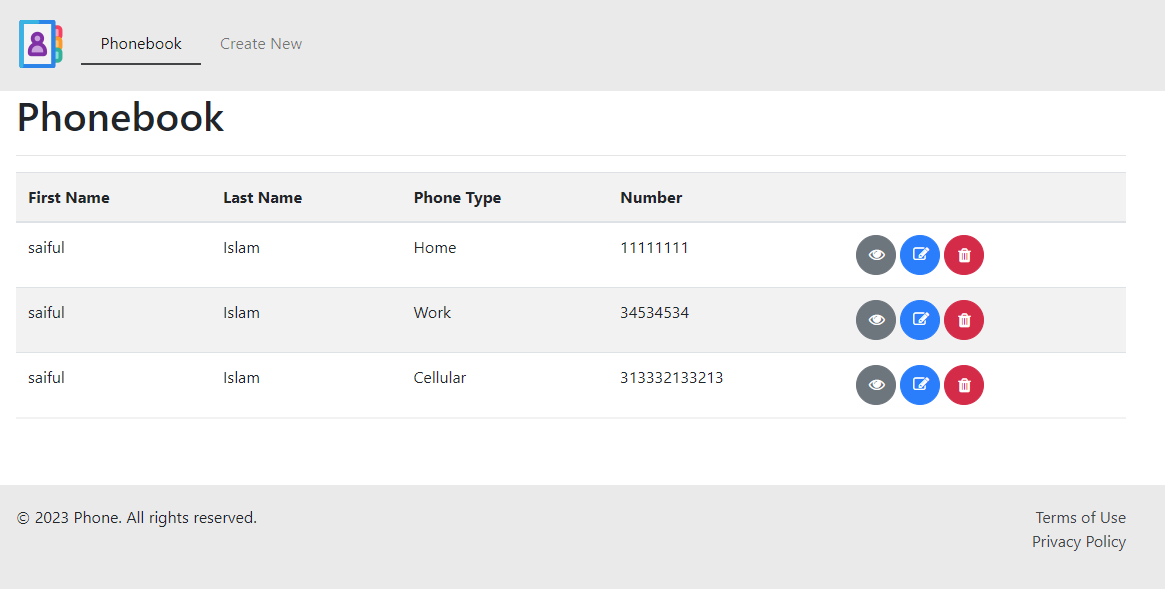
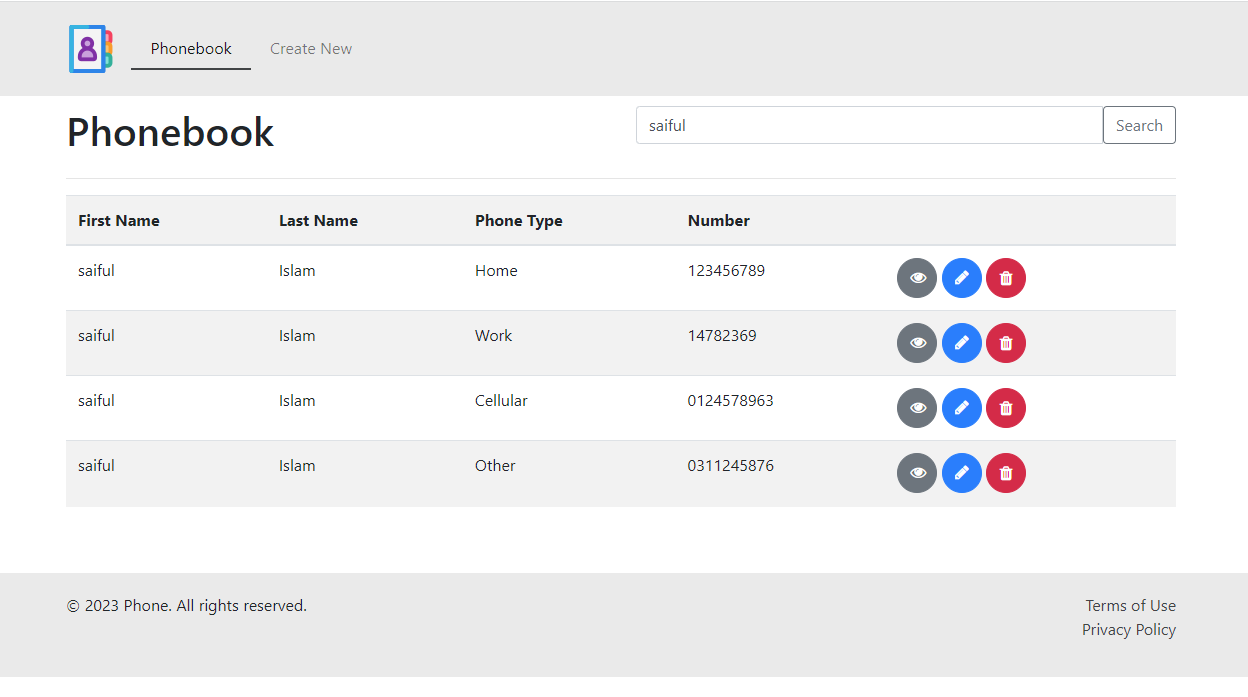
Search List
Search List from Frist Name and Last Name

diff --git a/public/css/header.css b/public/css/header.css
@@ -1,6 +1,7 @@
 header {
     background-color: #eaeaea;
     padding: 10px;
+    margin-bottom: 10px;
 }
 nav{
     width: 100%;

diff --git a/resources/views/phonebook/index.blade.php b/resources/views/phonebook/index.blade.php
@@ -4,7 +4,23 @@
     <div class="container">
         <div class="row">
             <div class="col-md-12">
-                <h1>Phonebook</h1>
+              <div class="row">
+                <div class="col-md-6">
+                    <h1>Phonebook</h1>
+                </div>
+                <div class="col-md-6">
+                  <form action="{{ route('phonebook.index') }}" method="GET" class="mb-3">
+                      <div class="input-group">
+                          <input type="text" name="search" class="form-control" placeholder="Search by name" value="{{ request('search') }}">
+                          <button class="btn btn-outline-secondary" type="submit">Search</button>
+                      </div>
+                  </form>
+                </div>
+
+              </div>
+
+
+
                 <hr>
                 <div style="overflow-x: auto;">
                   <table class="table" >

diff --git a/app/Http/Controllers/PhonebookController.php b/app/Http/Controllers/PhonebookController.php
@@ -17,9 +17,13 @@ class PhonebookController extends Controller
      *
      * @return \Illuminate\Http\Response
      */
-    public function index()
+    public function index(Request $request)
     {
-      $phonebook = Phonebook::paginate(20);
+      $search = $request->search;
+      $phonebook = Phonebook::where('first_name', 'like', '%'.$search.'%')
+                              ->orWhere('last_name', 'like', '%'.$search.'%')
+                              ->paginate(20);
+                              
       return view('phonebook.index', compact('phonebook'));
     }
 

diff --git a/database/seeders/DatabaseSeeder.php b/database/seeders/DatabaseSeeder.php
@@ -14,5 +14,6 @@ class DatabaseSeeder extends Seeder
     public function run()
     {
         // \App\Models\User::factory(10)->create();
+        $this->call(PhoneTypesTableSeeder::class);
     }
 }

diff --git a/README.md b/README.md
@@ -1,4 +1,4 @@
-# Phonebook System - Laravel 7.x
+# Phonebook System - Laravel 8.x
 
 A project which manage to manage you phonebook and manage the phone indexing.
 
